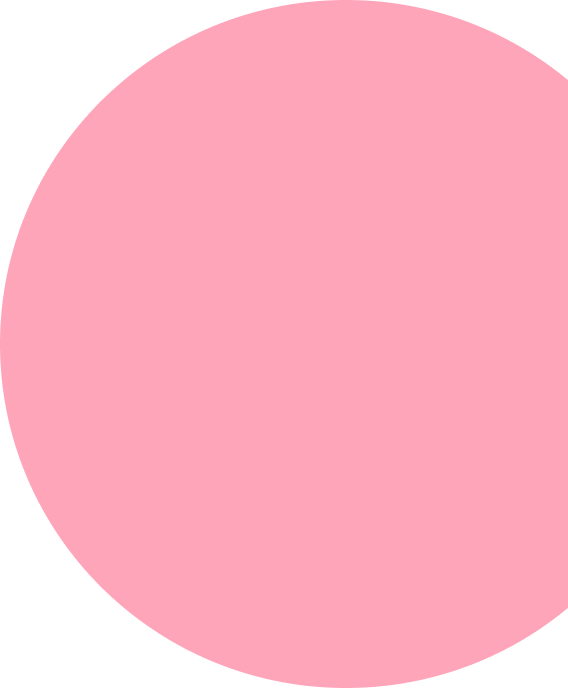
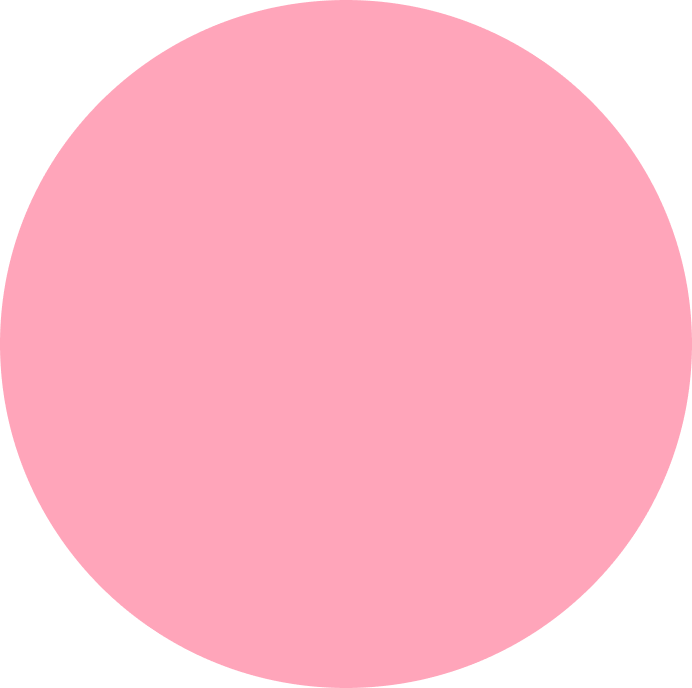
add styles desktop

diff --git a/src/sass/layout/_hero.scss b/src/sass/layout/_hero.scss
@@ -3,7 +3,7 @@
 }
 
 .scrolltop {
-  @include transition (background-color);
+  @include transition(background-color);
   @extend %flex-center-style;
   position: fixed;
   bottom: 10px;
@@ -15,18 +15,18 @@
   z-index: 99;
   background-color: $primary-brand-color;
   @media screen and (min-width: 768px) {
-     width: 40px;
-     height: 40px;
+    width: 40px;
+    height: 40px;
   }
   @media screen and (min-width: 1280px) {
-     bottom: 20px;
-     right: 20px;
-     width: 50px;
-     height: 50px;
+    bottom: 20px;
+    right: 20px;
+    width: 50px;
+    height: 50px;
   }
   &:hover,
   &:focus {
-     background-color: $secondary-brand-color;
+    background-color: $secondary-brand-color;
   }
 }
 
@@ -42,7 +42,7 @@
   padding: 3px;
 
   &--up {
-     transform: rotate(-135deg);
+    transform: rotate(-135deg);
   }
 }
 
@@ -140,8 +140,34 @@
   }
 }
 
+.outlets__item {
+  position: relative;
+}
+
 .outlets__item:not(last.child) {
   margin-bottom: 13px;
+  @media screen and (min-width: $desktop) {
+    margin-bottom: 35px;
+  }
+}
+
+.outlets__item::after {
+  content: '';
+  width: 16px;
+  height: 16px;
+  background-color: $primary-color;
+  position: absolute;
+  top: -4px;
+  right: -8px;
+  border-radius: 50%;
+  z-index: -1;
+
+  @media screen and (min-width: $desktop) {
+    width: 30px;
+    height: 30px;
+    right: -16px;
+    top: -8px;
+  }
 }
 
 .outlets__number {
@@ -199,7 +225,7 @@
   width: 114px;
   @media screen and (min-width: $desktop) {
     width: 200px;
-	 margin-left: 30px;
+    margin-left: 30px;
   }
 }
 
@@ -212,27 +238,35 @@
   color: $primary-color;
   @media screen and (min-width: $desktop) {
     font-size: 14px;
-	 line-height: 1.28;
+    line-height: 1.28;
   }
 }
 
 .jug__button {
-	width: 18px;
-	height: 18px;
-	margin-top: 7px;
-	border-radius: 50%;
-	
-	@media screen and (min-width: $desktop) {
-   width: 26px;
-	height: 26px;
-	margin-top: 20px;
+  width: 18px;
+  height: 18px;
+  margin-top: 7px;
+  border-radius: 50%;
+  background-image: url(../images/hero/tablet/arrow-right-tablet@1x.png);
+  @media (min-device-pixel-ratio: 2), (min-resolution: 192dpi), (min-resolution: 2dppx) {
+    background-image: url(../images/hero/tablet/arrow-right-tablet@2x.png);
+  }
+
+  @media screen and (min-width: $desktop) {
+    width: 26px;
+    height: 26px;
+    margin-top: 20px;
+    background-image: url(../images/hero/desktop/arrow-right-desktop@1x.png);
+    @media (min-device-pixel-ratio: 2), (min-resolution: 192dpi), (min-resolution: 2dppx) {
+      background-image: url(../images/hero/desktop/arrow-right-desktop@2x.png);
+    }
   }
 }
 
 .hero-ellipse__image {
   position: absolute;
-  width: 284px;
-  right: 0;
+  width: 346px;
+  right: -36px;
   bottom: 75px;
   @media screen and (min-width: $tablet) {
     width: 324px;

diff --git a/src/partials/hero.html b/src/partials/hero.html
@@ -79,7 +79,7 @@
         <source
           srcset="
             ./images/hero/mobile/hero-ellipse-mobile@1x.png 1x,
-            ./images/hero/mobile/hero-ellipse-mobile@2x.png 2x
+            ./images/hero/mobile/hero-ellipse-mobile@1x.png 2x
           "
           media="(min-width:480px)"
         />
